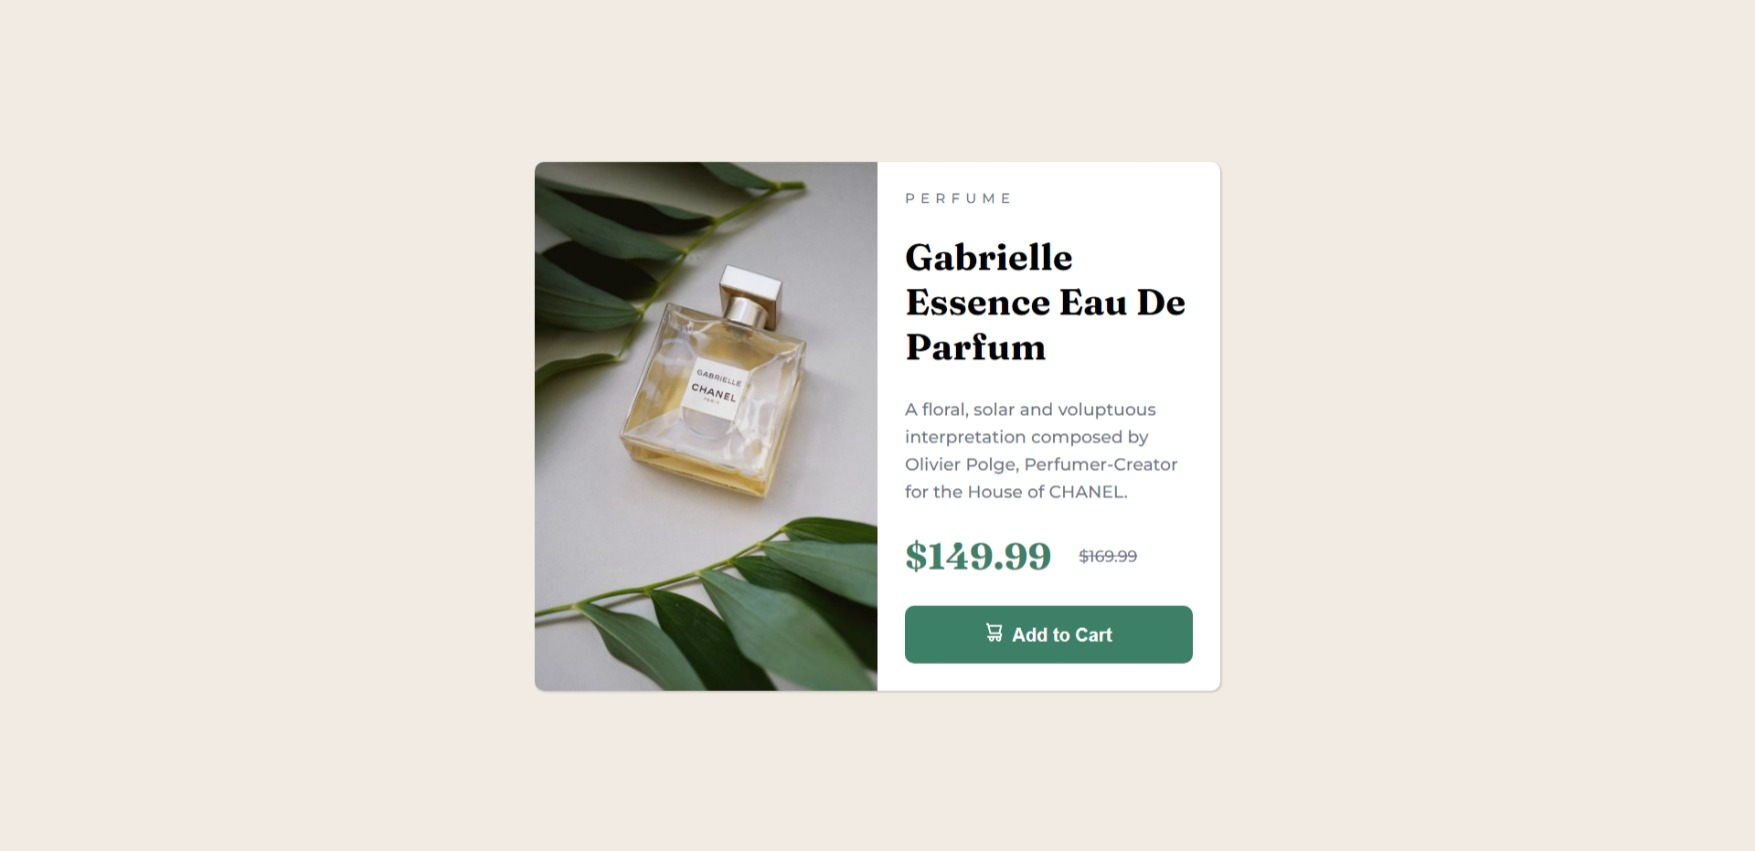
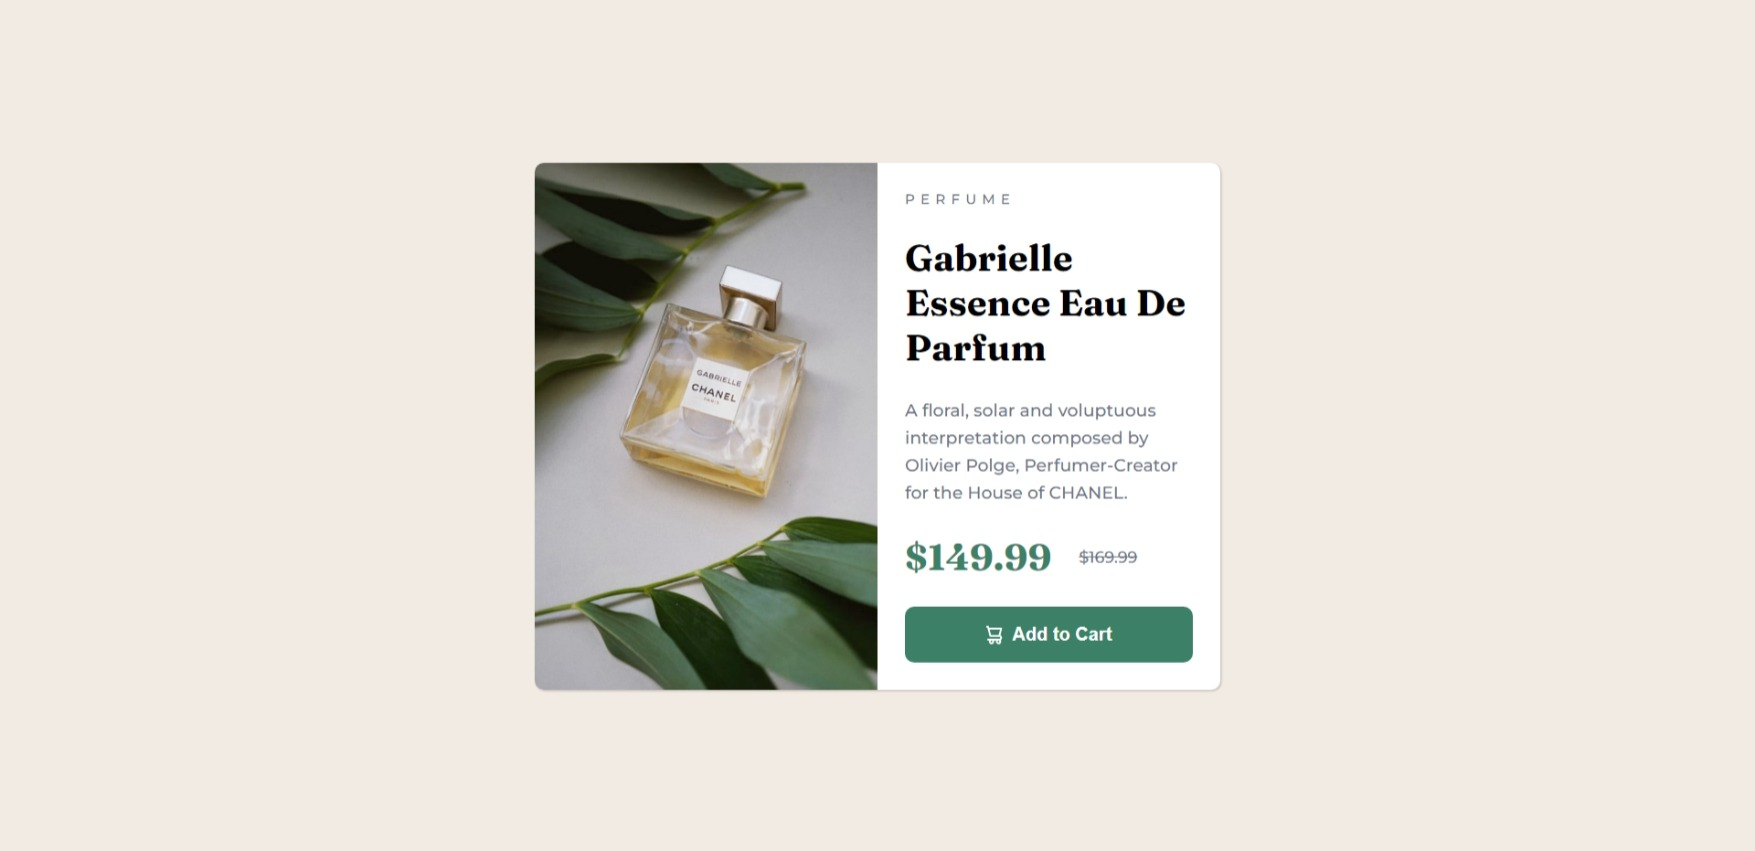
Improved according to Rino's suggestion.
1. Remove the right margin property of the <img> element and add 
* display: flex;
* adjust content: center;
* Arranging items: center;
* Column gap: 0.5rem;
2. Use the <picture> element to swap image resources according to the media screen.

diff --git a/style.css b/style.css
@@ -24,13 +24,13 @@ body {
   border-radius: 0.5rem;
   width: 600px;
 }
-.product {
+.preview {
   width: 300px;
   height: auto;
   position: relative;
   border-radius: 0.5rem 0 0 0.5rem;
 }
-.product img {
+.preview img {
   width: auto;
   width: 300px;
   min-height: 100%;
@@ -88,28 +88,16 @@ body {
   font-weight: 700;
   border-radius: 0.5rem;
   cursor: pointer;
-}
-.btn img {
-  margin-right: 0.5rem;
+  display: flex;
+  justify-content: center;
+  align-items: center;
+  column-gap: 0.5rem;
 }
 .btn:hover {
   background-color: var(--Very-dark-blue);
 }
-@media screen and (min-width: 900px) {
-  .image-mobile {
-    display: none !important;
-  }
-  .image-desktop {
-    display: block !important;
-  }
-}
-@media screen and (max-width: 600px) {
-  .image-desktop {
-    display: none !important;
-  }
-  .image-mobile {
-    display: block !important;
-  }
+
+@media screen and (max-width: 641px) {
   .card {
     flex-direction: column;
     max-width: 375px;
@@ -122,10 +110,10 @@ body {
     height: auto;
     gap: 1rem;
   }
-  .product {
+  .preview {
     width: 100%;
   }
-  .product img {
+  .preview img {
     width: 100%;
     border-radius: 0.5rem 0.5rem 0 0;
   }

diff --git a/index.html b/index.html
@@ -17,7 +17,7 @@
   <body>
     <main>
       <div class="card">
-        <div class="product">
+        <!-- <div class="product">
           <img
             class="image-desktop"
             src="./images/image-product-desktop.jpg"
@@ -28,7 +28,22 @@
             src="./images/image-product-mobile.jpg"
             alt="product-perfume"
           />
-        </div>
+        </div> -->
+        <picture class="preview">
+          <source
+            media="(min-width:641px)"
+            srcset="./images/image-product-desktop.jpg"
+          />
+          <source
+            media="(max-width:641px)"
+            srcset="./images/image-product-mobile.jpg"
+          />
+          <img
+            src="./images/image-product-desktop.jpg"
+            alt="A floral, solar and voluptuous interpretation composed by Olivier
+          Polge, Perfumer-Creator for the House of CHANEL."
+          />
+        </picture>
         <div class="content">
           <span class="product-title">Perfume</span>
           <h1 class="title">Gabrielle Essence Eau De Parfum</h1>
